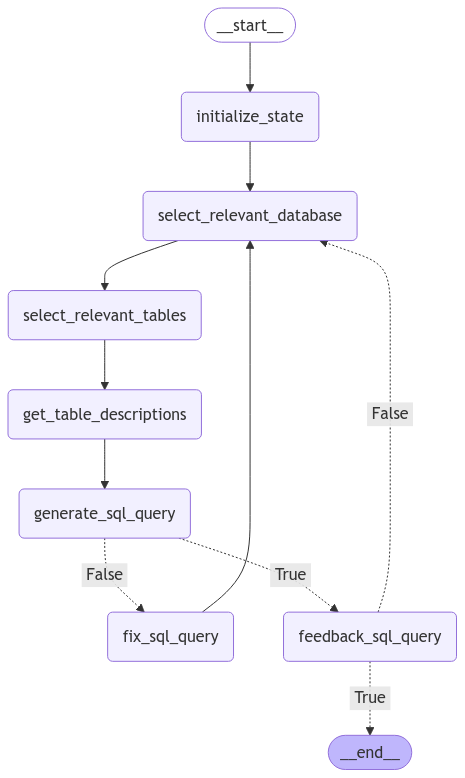
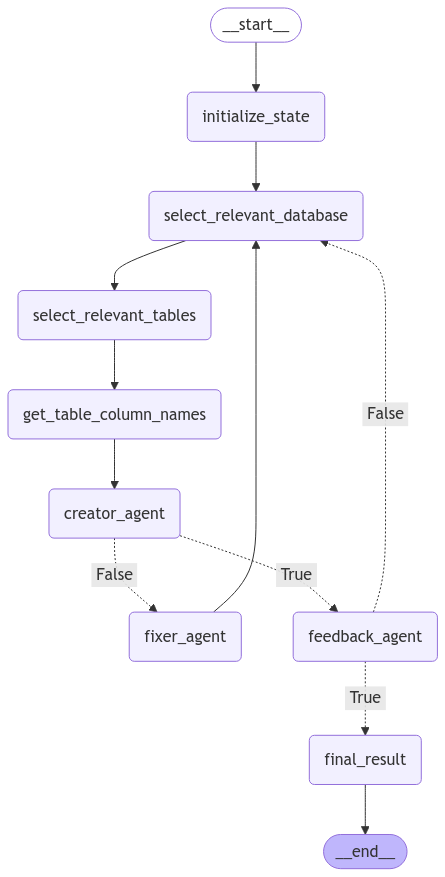
prompt improvements for creator

diff --git a/src/prompt_templates/creator_agent.py b/src/prompt_templates/creator_agent.py
@@ -6,7 +6,7 @@ ZERO_SHOT = """
         
         {{
             "original_question": "The natural language question that needs to be answered.",
-            "relevant_tables": "The tables that are relevant to the question.",
+            "relevant_tables": "A dictionary where keys are table names and values are lists of all columns in those tables.",
             "feedback_trace": "Feedback from previous attempts, if any."
         }}
 
@@ -16,7 +16,7 @@ ZERO_SHOT = """
 
         Steps to Perform:
         1. Analyze the original question to understand the information being requested.
-        2. Review the relevant tables to identify where the necessary data is stored.
+        2. Review the relevant tables and their columns to identify where the necessary data is stored.
         3. Consider any feedback to avoid repeating mistakes.
         4. Generate a correct SQL query using SQLite syntax that retrieves the required information from the relevant tables.
 
@@ -27,7 +27,7 @@ ZERO_SHOT = """
         - Be precise and thorough in your analysis.
         - Ensure that the SQL query is syntactically correct and optimized for performance.
         - Use the feedback from previous attempts to improve the accuracy of your query.
-        - You must only use the relevant tables provided to answer the question. Do not use any other table names. Using any table not listed in the relevant tables is not allowed.
+        - You must only use the relevant tables and their respective columns provided to answer the question. Do not use any other table names or columns not listed in the relevant tables.
 
         -------------------------------------------------------------------------------
 
@@ -48,7 +48,7 @@ ONE_SHOT = """
         
         {{
             "original_question": "The natural language question that needs to be answered.",
-            "relevant_tables": "The tables that are relevant to the question.",
+            "relevant_tables": "A dictionary where keys are table names and values are lists of all columns in those tables.",
             "feedback_trace": "Feedback from previous attempts, if any."
         }}
 
@@ -58,7 +58,7 @@ ONE_SHOT = """
 
         Steps to Perform:
         1. Analyze the original question to understand the information being requested.
-        2. Review the relevant tables to identify where the necessary data is stored.
+        2. Review the relevant tables and their columns to identify where the necessary data is stored.
         3. Consider any feedback to avoid repeating mistakes.
         4. Generate a correct SQL query using SQLite syntax that retrieves the required information from the relevant tables.
 
@@ -69,14 +69,14 @@ ONE_SHOT = """
         - Be precise and thorough in your analysis.
         - Ensure that the SQL query is syntactically correct and optimized for performance.
         - Use the feedback from previous attempts to improve the accuracy of your query.
-        - You must only use the relevant tables provided to answer the question. Do not use any other table names. Using any table not listed in the relevant tables is not allowed.
+        - You must only use the relevant tables and their respective columns provided to answer the question. Do not use any other table names or columns not listed in the relevant tables.
 
         -------------------------------------------------------------------------------
 
         Example Input with empty Feedback:
         {{
             "original_question": "What is the total revenue generated in 2023?",
-            "relevant_tables": ["sales"],
+            "relevant_tables": {{"sales": ["revenue", "year", "product_id", "quantity"]}},
             "feedback_trace": []
         }}
 
@@ -102,7 +102,7 @@ TWO_SHOT = """
         
         {{
             "original_question": "The natural language question that needs to be answered.",
-            "relevant_tables": "The tables that are relevant to the question.",
+            "relevant_tables": "A dictionary where keys are table names and values are lists of all columns in those tables.",
             "feedback_trace": "Feedback from previous attempts, if any."
         }}
 
@@ -112,7 +112,7 @@ TWO_SHOT = """
 
         Steps to Perform:
         1. Analyze the original question to understand the information being requested.
-        2. Review the relevant tables to identify where the necessary data is stored.
+        2. Review the relevant tables and their columns to identify where the necessary data is stored.
         3. Consider any feedback to avoid repeating mistakes.
         4. Generate a correct SQL query using SQLite syntax that retrieves the required information from the relevant tables.
 
@@ -123,14 +123,14 @@ TWO_SHOT = """
         - Be precise and thorough in your analysis.
         - Ensure that the SQL query is syntactically correct and optimized for performance.
         - Use the feedback from previous attempts to improve the accuracy of your query.
-        - You must only use the relevant tables provided to answer the question. Do not use any other table names. Using any table not listed in the relevant tables is not allowed.
+        - You must only use the relevant tables and their respective columns provided to answer the question. Do not use any other table names or columns not listed in the relevant tables.
 
         -------------------------------------------------------------------------------
 
         Example Input with empty Feedback:
         {{
             "original_question": "What is the total revenue generated in 2023?",
-            "relevant_tables": ["sales"],
+            "relevant_tables": {{"sales": ["revenue", "year", "product_id", "quantity"]}},
             "feedback_trace": []
         }}
 
@@ -142,7 +142,7 @@ TWO_SHOT = """
         Example Input with Feedback:
         {{
             "original_question": "What is the average household income in King County for 2021?",
-            "relevant_tables": ["income_data"],
+            "relevant_tables": {{"income_data": ["Household Income", "County", "Year", "Population"]}},
             "feedback_trace": {{'query_result': 'error', 'is_correct': False, 'feedback': 'Error executing query: near "Output": syntax error', 'updated_query': None}}
         }}
 

diff --git a/src/agents/orchestrator_agent.py b/src/agents/orchestrator_agent.py
@@ -7,11 +7,12 @@ import json
 import chardet
 from dotenv import load_dotenv
 from feedback_agent import FeedbackAgent
+from fixer_agent import FixerAgent
 import prompt_templates.select_relevant_database as select_relevant_database_templates
 import prompt_templates.select_relevant_tables as select_relevant_tables_templates
 from langchain.prompts import PromptTemplate
-from langchain_core.runnables import RunnableConfig
 from creator_agent import create_sql_query_creator
+from tools.database import Database
 
 load_dotenv()
 
@@ -37,7 +38,7 @@ def retrieve_table_names(database_name: str):
     return table_names
 
 
-def retrieve_table_descriptions(database_name: str, tables: list):
+def retrieve_column_names(database_name: str, tables: list):
     table_descriptions = {}
     descriptions_path = os.path.join(
         os.getenv("DB_DIRECTORY"), database_name, "database_description"
@@ -46,7 +47,7 @@ def retrieve_table_descriptions(database_name: str, tables: list):
     for table_name in tables:
         file_path = os.path.join(descriptions_path, f"{table_name}.csv")
         if os.path.exists(file_path):
-            # Detect encoding dynamically
+            # Detect encoding dynamically since it can vary from file to file
             with open(file_path, "rb") as file:
                 result = chardet.detect(file.read())
                 detected_encoding = (
@@ -59,8 +60,7 @@ def retrieve_table_descriptions(database_name: str, tables: list):
             # Extract column descriptions
             columns = table_data[["original_column_name", "column_description"]]
             table_descriptions[table_name] = [
-                f"{column.original_column_name}: {column.column_description}"
-                for column in columns.itertuples()
+                f"{column.original_column_name}" for column in columns.itertuples()
             ]
 
     return table_descriptions
@@ -111,7 +111,9 @@ def select_relevant_tables(state: State):
     )
     raw_response = llm.invoke(prompt)
     # Sometimes the LLM starts the response with some extra text, so we remove it
-    processed_response = raw_response[raw_response.find("{") :].strip()
+    processed_response = raw_response[
+        raw_response.find("{") : raw_response.rfind("}") + 1
+    ].strip()
 
     try:
         # Parse the JSON response
@@ -130,8 +132,8 @@ def select_relevant_tables(state: State):
     return state
 
 
-def get_table_descriptions(state: State):
-    state["relevant_tables"] = retrieve_table_descriptions(
+def get_table_column_names(state: State):
+    state["relevant_tables"] = retrieve_column_names(
         state["relevant_database"], list(state["relevant_tables"].keys())
     )
     return state
@@ -141,8 +143,24 @@ def create_sql_query(state: State):
     return create_sql_query_creator(state)
 
 
+def validate_sql_query_syntax(state: State):
+    db = Database(state["relevant_database"])
+    try:
+        db.execute_query(state["generated_sql_queries"][-1])
+        return True
+    except Exception as e:
+        state["errors"].append(f"Error executing query: {e}")
+        return False
+
+
 def validate_sql_query(state: State):
     return state["feedbacks"][-1]["is_correct"]
+
+
+def fix_sql_query(state: State):
+    fixer_agent = FixerAgent(llm=llm)
+    fixer_agent.analyse_incorrect_query(state)
+    return state
 
 
 def feedback_sql_query(state: State):
@@ -159,17 +177,23 @@ def final_result(state: State):
 graph_builder.add_node("initialize_state", initialize_state)
 graph_builder.add_node("select_relevant_database", select_relevant_database)
 graph_builder.add_node("select_relevant_tables", select_relevant_tables)
-graph_builder.add_node("get_table_descriptions", get_table_descriptions)
+graph_builder.add_node("get_table_column_names", get_table_column_names)
 graph_builder.add_node("creator_agent", create_sql_query)
+graph_builder.add_node("fixer_agent", fix_sql_query)
 graph_builder.add_node("feedback_agent", feedback_sql_query)
 graph_builder.add_node("final_result", final_result)
 
 graph_builder.add_edge(START, "initialize_state")
 graph_builder.add_edge("initialize_state", "select_relevant_database")
 graph_builder.add_edge("select_relevant_database", "select_relevant_tables")
-graph_builder.add_edge("select_relevant_tables", "get_table_descriptions")
-graph_builder.add_edge("get_table_descriptions", "creator_agent")
-graph_builder.add_edge("creator_agent", "feedback_agent")
+graph_builder.add_edge("select_relevant_tables", "get_table_column_names")
+graph_builder.add_edge("get_table_column_names", "creator_agent")
+graph_builder.add_conditional_edges(
+    "creator_agent",
+    validate_sql_query_syntax,
+    {True: "feedback_agent", False: "fixer_agent"},
+)
+graph_builder.add_edge("fixer_agent", "select_relevant_database")
 graph_builder.add_conditional_edges(
     "feedback_agent",
     validate_sql_query,
@@ -186,7 +210,9 @@ def visualize_graph():
         png_bytes = graph.get_graph().draw_mermaid_png()
 
         # Save to a file
-        with open("src/agents/workflow.png", "wb") as f:
+        with open(
+            os.path.join(os.getenv("SRC_DIRECTORY"), "agents/workflow.png"), "wb"
+        ) as f:
             f.write(png_bytes)
     except Exception as e:
         print(f"An error occurred: {e}")

diff --git a/src/agents/creator_agent.py b/src/agents/creator_agent.py
@@ -7,17 +7,16 @@ import json
 
 def create_sql_query_creator(state: dict) -> str:
     prompt = PromptTemplate.from_template(creator_agent_templates.TWO_SHOT)
-    print(f"Creator agent: relevant tables: {json.dumps(state['relevant_tables'])}")
     prompt = prompt.invoke(
         {
             "original_question": state["original_question"],
-            "relevant_tables": ", ".join(state["relevant_tables"]),
+            "relevant_tables": json.dumps(state["relevant_tables"]),
+            "generated_sql_queries": ", ".join(state["generated_sql_queries"]),
             "feedback_trace": json.dumps(state["feedbacks"]),
         }
     )
     llm = OpenAI(api_key=os.getenv("OPENAI_API_KEY"))
     response = llm.invoke(prompt)
     response = response.replace("Output:", "").strip()
-    print(f"Creator agent: Processed response: {response}")
     state["generated_sql_queries"].append(response)
     return state

diff --git a/src/agents/feedback_agent.py b/src/agents/feedback_agent.py
@@ -34,9 +34,6 @@ class FeedbackAgent:
         )
 
         if response is not None:
-            print(f"Feedback agent: {response}")
-            print(f"Feedback agent: Query: {generated_sql_query}")
-            print(f"Feedback agent: Orignal Question: {original_question}")
             state["feedbacks"].append(response)
         else:
             state["errors"].append("Feedback Failed")

diff --git a/src/approach_evaluator.py b/src/approach_evaluator.py
@@ -146,7 +146,7 @@ class ApproachEvaluator:
         Returns:
             bool: A boolean value indicating whether the query results are the same.
         """
-        db = Database("example.db")
+        db = Database(database)
         try:
             predicted_result = db.execute_query(predicted_query)
             target_result = db.execute_query(target_query)

diff --git a/src/agents/fixer_agent.py b/src/agents/fixer_agent.py
@@ -7,7 +7,7 @@ from typing_extensions import TypedDict
 
 from state_types import FixerResponse, State
 from tools.database import Database
-import templates.fixer_agent as templates
+import prompt_templates.fixer_agent as templates
 
 
 class FixerAgent:
